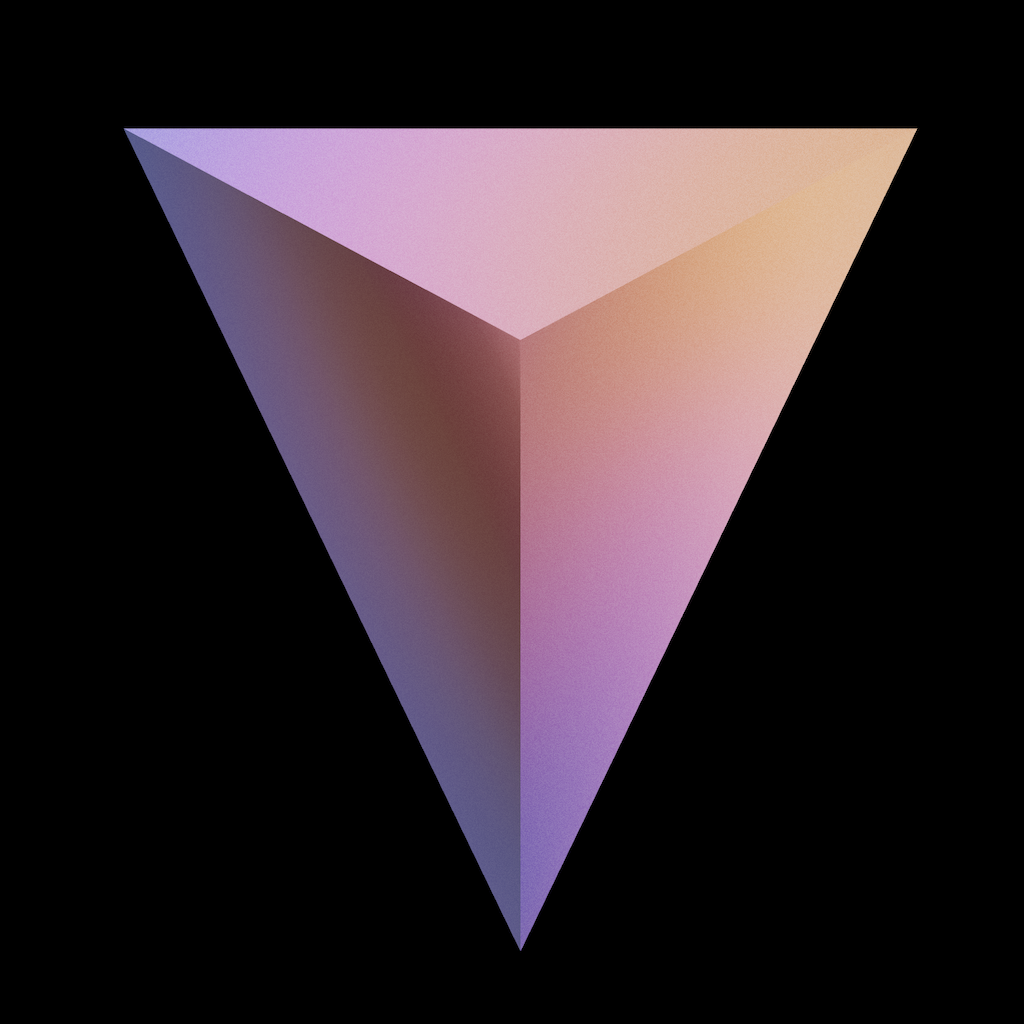
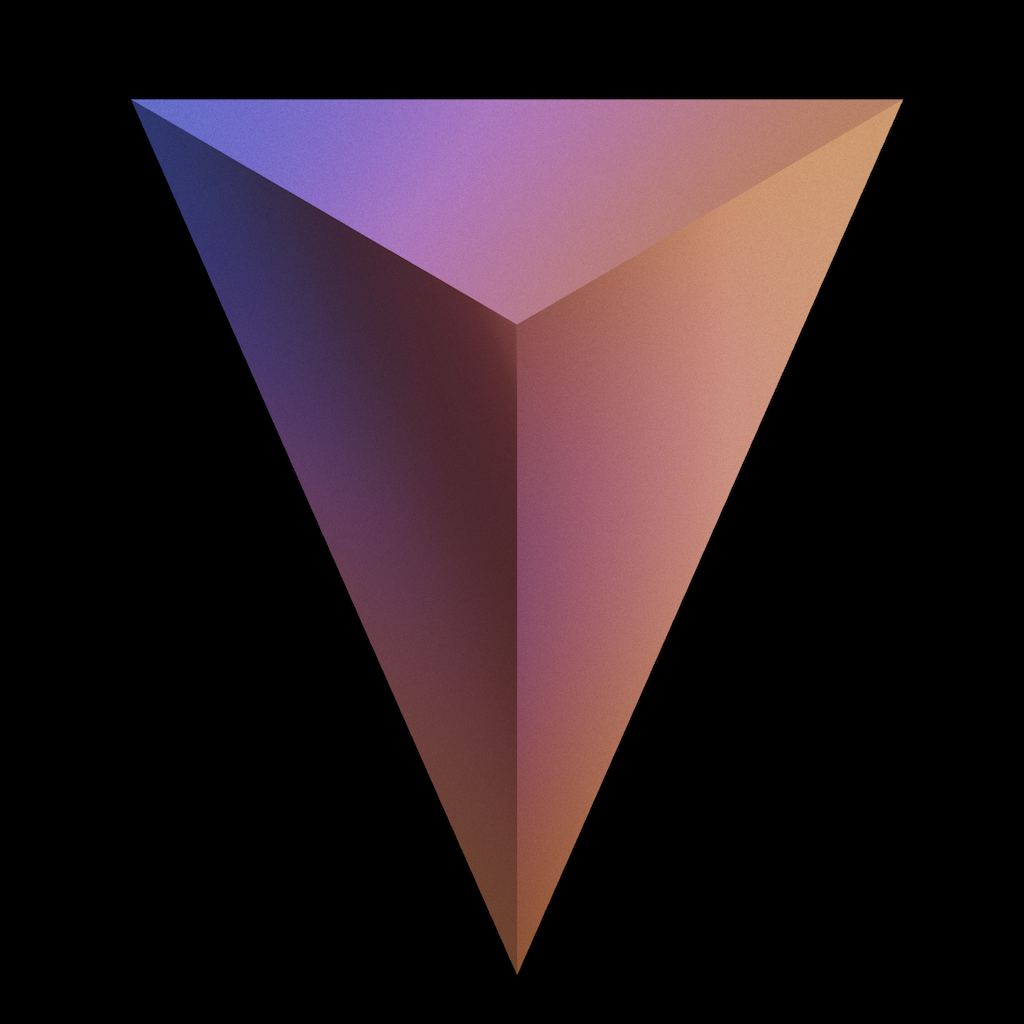
chore: update tet props

diff --git a/src/components/shaders/tet.tsx b/src/components/shaders/tet.tsx
@@ -21,13 +21,9 @@ export default function Tet() {
   }
 
   const materialProps = useControls({
-    metalness: { value: 0, min: 0, max: 1 },
-    roughness: { value: 0.5, min: 0, max: 1 },
-    transmission: { value: 0, min: 0, max: 1 },
-    thickness: { value: 1.5, min: 0, max: 2 },
-    ior: { value: 1.5, min: 0, max: 2 },
-    wireframe: false,
-    transparent: true
+    metalness: { value: 0.5, min: 0, max: 1 },
+    roughness: { value: 0.7, min: 0, max: 1 },
+    wireframe: false
   })
 
   const resolution = new Vector2(
